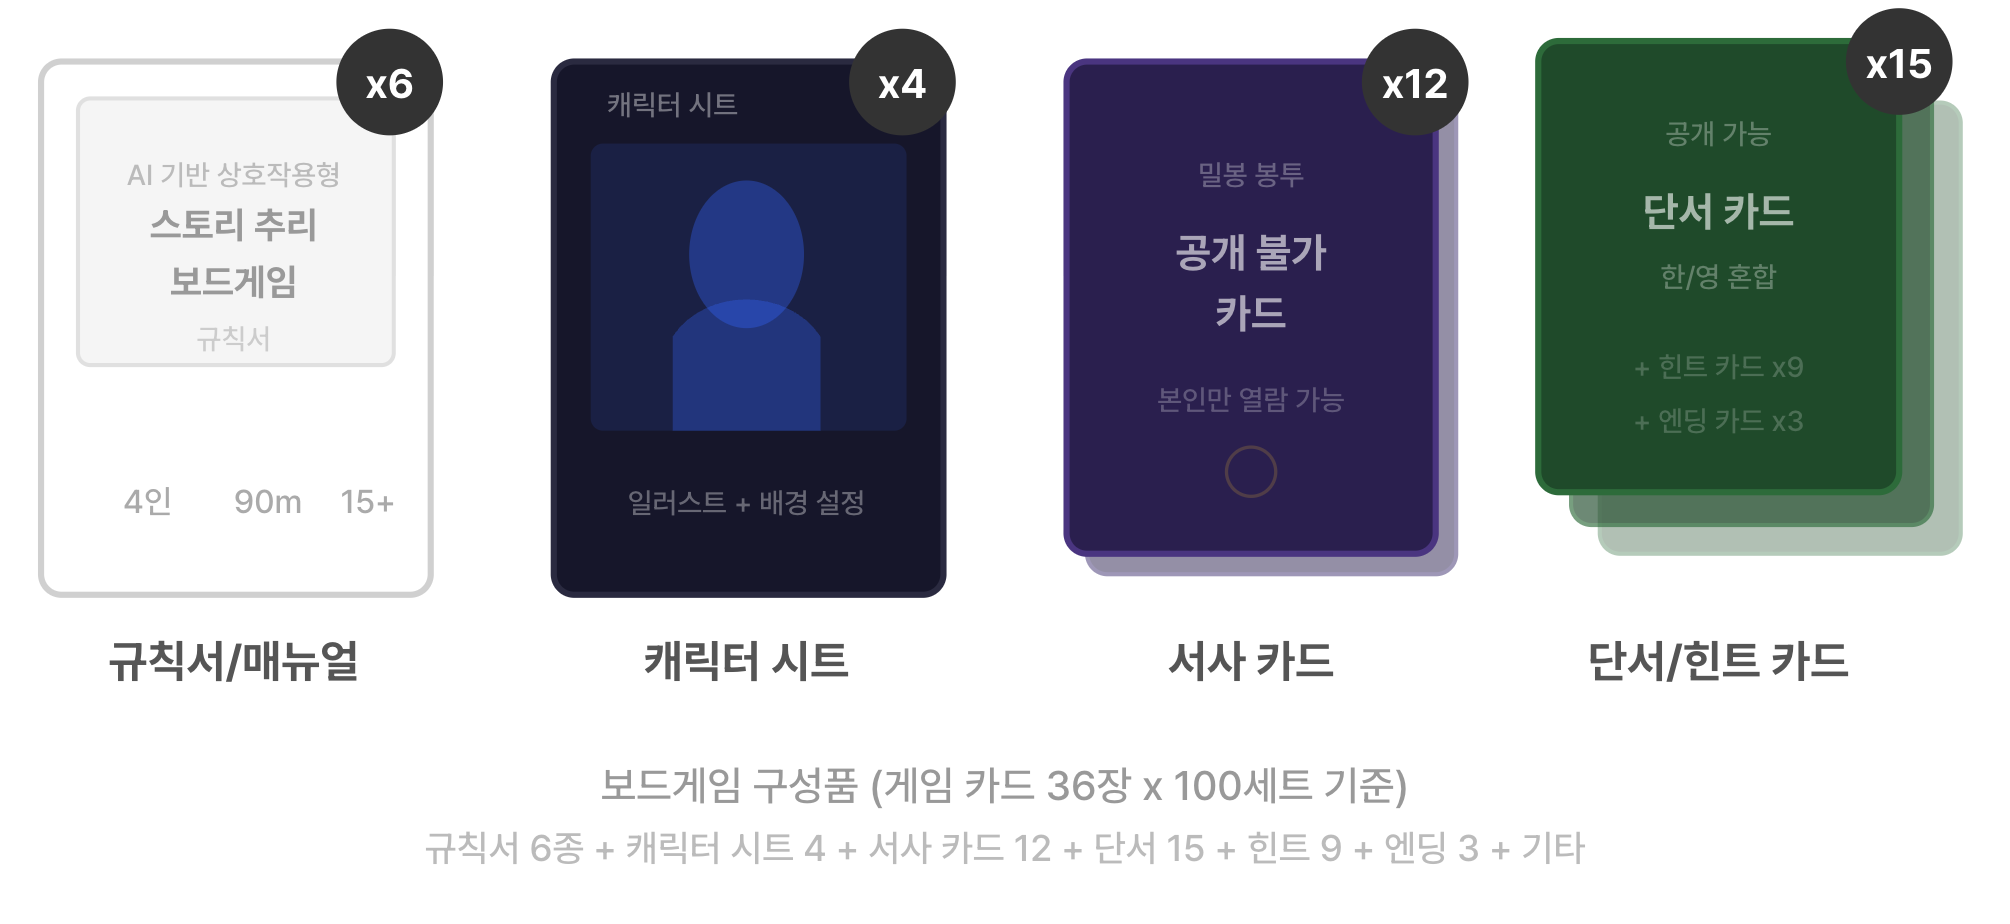
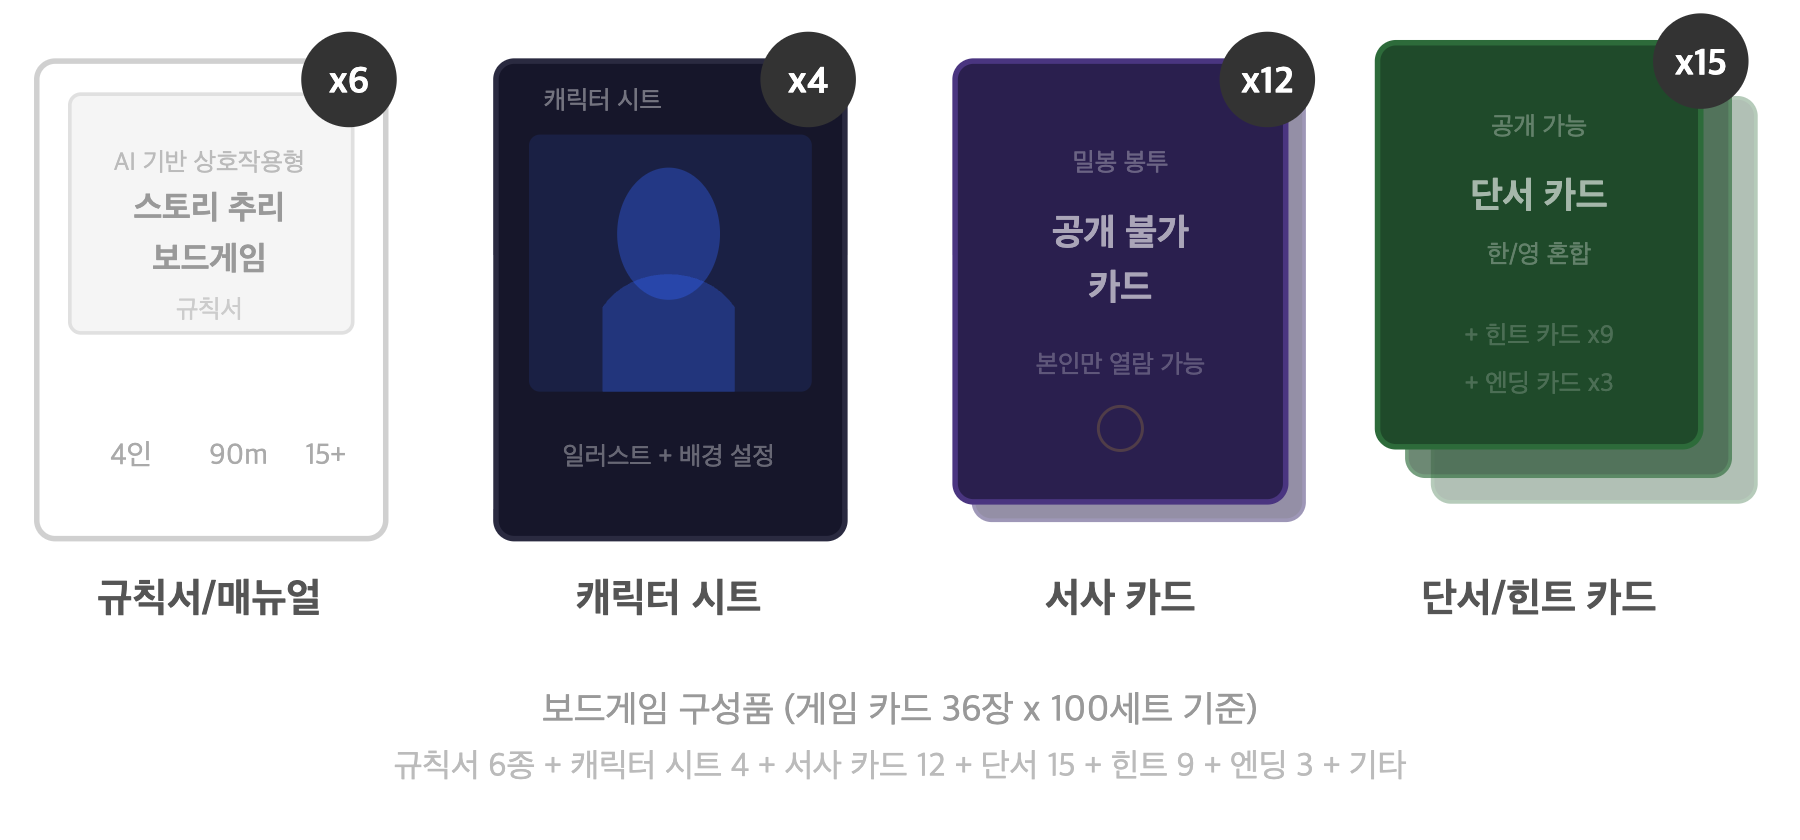
Fix SVG transparency + enlarge donut chart + constrain stat boxes
- Re-render 6 non-character SVGs with alpha channel (transparent bg)
- s6-svg4: wider viewport to prevent STEP 4 text cutoff
- S16 donut chart: 240px → 360px, centered
- S23/S24 stat card rows: max-width:900px to prevent over-stretching

diff --git a/docs/u-series-startup.html b/docs/u-series-startup.html
@@ -1381,9 +1381,9 @@ async function downloadFromPreview(){
           <div class="rev-block card-elevated" style="padding:0.8rem 1.5rem;margin-bottom:0.5rem"><div class="pct" style="font-size:2rem">55%</div><h3 style="font-size:1.5rem">B2C 판매</h3><p style="font-size:1.5rem">크라우드펀딩 + 스마트스토어. 시나리오당 39,900원. 시리즈 번들 할인. 확장팩 판매.</p></div>
           <div class="rev-block card-elevated" style="border-left-color:var(--primary-dark);padding:0.8rem 1.5rem;margin-bottom:0.5rem"><div class="pct" style="color:var(--primary-dark);font-size:2rem">25%</div><h3 style="font-size:1.5rem">B2B 교육기관 납품</h3><p style="font-size:1.5rem">학교·학원·복지기관 파일럿 프로그램. 맞춤 시나리오 라이선스.</p></div>
           <div class="rev-block card-elevated" style="border-left-color:var(--ice);padding:0.8rem 1.5rem;margin-bottom:0.5rem"><div class="pct" style="color:var(--ice);font-size:2rem">20%</div><h3 style="font-size:1.5rem">B2G 공공기관 연동</h3><p style="font-size:1.5rem">지자체·관광공사 제휴 패키지. 교육청 방과후 프로그램 납품.</p></div>
-          <!-- 도넛 차트: 좌측 하단 소형 배치 -->
-          <div style="text-align:left">
-            <img src="svg-img/s16-svg9.png" style="width:240px" alt="수익구조 도넛차트">
+          <!-- 도넛 차트 -->
+          <div style="text-align:center">
+            <img src="svg-img/s16-svg9.png" style="width:360px" alt="수익구조 도넛차트">
           </div>
         </div>
         <div>
@@ -1670,7 +1670,7 @@ async function downloadFromPreview(){
           <p style="font-size:1.5rem;margin-top:0.3rem;color:var(--dim)"><strong>위탁판매계약</strong> 보틀링컴퍼니</p>
         </div>
       </div>
-      <div class="rv d2" style="display:flex;gap:1.5rem;margin-top:1rem;margin-left:auto;margin-right:auto">
+      <div class="rv d2" style="display:flex;gap:1.5rem;margin-top:1rem;max-width:900px;margin-left:auto;margin-right:auto">
         <div class="card" style="flex:3;padding:0.5rem 0.8rem">
           <h3 style="font-size:1.4rem;margin-bottom:0.2rem;color:var(--primary)">구매의향서 상세 (7건 · 90세트)</h3>
           <table style="font-size:1.4rem;width:100%">
@@ -1721,7 +1721,7 @@ async function downloadFromPreview(){
           <p style="font-size:1.5rem;margin-top:0.3rem;color:var(--dim)">디지털 피로 <strong style="color:var(--red)">78.7%</strong> · 오프라인 필요성 <strong>68.6%</strong></p>
         </div>
       </div>
-      <div class="rv d2" style="display:flex;gap:1.5rem;margin-top:1rem;margin-left:auto;margin-right:auto">
+      <div class="rv d2" style="display:flex;gap:1.5rem;margin-top:1rem;max-width:900px;margin-left:auto;margin-right:auto">
         <div class="card card-blue" style="flex:1;text-align:center;padding:0.5rem 0.6rem"><div style="font-size:1.7rem;font-weight:900;color:var(--primary)">92.9%</div><div style="font-size:1.4rem;color:var(--dim)">두뇌 활용</div></div>
         <div class="card card-blue" style="flex:1;text-align:center;padding:0.5rem 0.6rem"><div style="font-size:1.7rem;font-weight:900;color:var(--primary)">88.7%</div><div style="font-size:1.4rem;color:var(--dim)">집중 요구</div></div>
         <div class="card card-blue" style="flex:1;text-align:center;padding:0.5rem 0.6rem"><div style="font-size:1.7rem;font-weight:900;color:var(--primary)">86.4%</div><div style="font-size:1.4rem;color:var(--dim)">재미/만족</div></div>
@@ -1754,7 +1754,7 @@ async function downloadFromPreview(){
           <p style="font-size:1.5rem;margin-top:0.3rem;color:var(--dim)">반전 재미 <strong>33.1%</strong> · 대화/협력 <strong>29%</strong></p>
         </div>
       </div>
-      <div class="rv d2" style="display:flex;gap:1.5rem;margin-top:1rem;margin-left:auto;margin-right:auto">
+      <div class="rv d2" style="display:flex;gap:1.5rem;margin-top:1rem;max-width:900px;margin-left:auto;margin-right:auto">
         <div class="card card-blue" style="flex:1;text-align:center;padding:0.5rem 0.6rem"><div style="font-size:1.7rem;font-weight:900;color:var(--primary)">87.6%</div><div style="font-size:1.4rem;color:var(--dim)">구매 고려</div></div>
         <div class="card card-blue" style="flex:1;text-align:center;padding:0.5rem 0.6rem"><div style="font-size:1.7rem;font-weight:900;color:var(--primary)">69.3%</div><div style="font-size:1.4rem;color:var(--dim)">29,900원 수용</div></div>
         <div class="card card-blue" style="flex:1;text-align:center;padding:0.5rem 0.6rem"><div style="font-size:1.7rem;font-weight:900;color:var(--primary)">78.1%</div><div style="font-size:1.4rem;color:var(--dim)">4~5명 선호</div></div>
